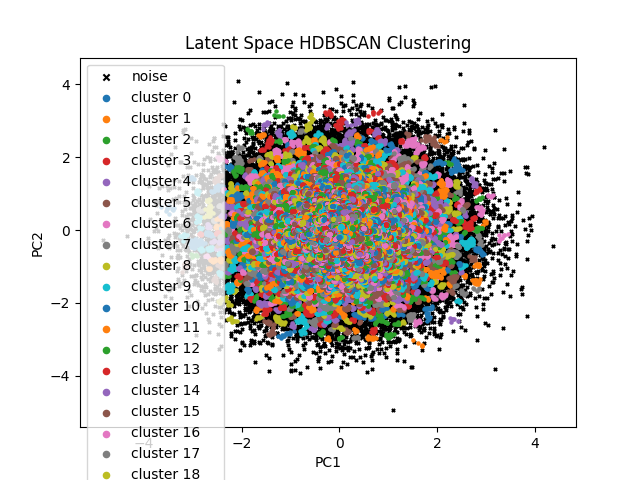
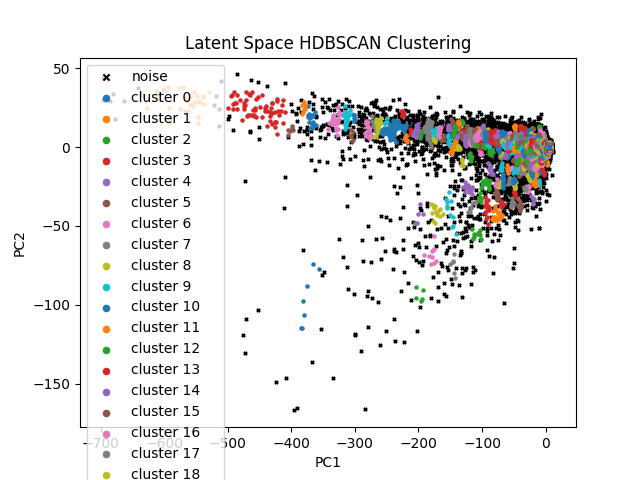
added the initial code for 6 VAEs

diff --git a/model.py b/model.py
@@ -1,4 +1,6 @@
 import torch
+from typing import List, Tuple
+from torch import Tensor
 import torch.nn as nn
 import torch.nn.functional as F
 from constants import (
@@ -17,7 +19,7 @@ class Conv_block(nn.Module):
         is_conv=True,
         use_dropout=USE_DROPOUT,
         dropout_rate=DROPOUT_RATE
-    ):
+    ) -> None:
         super().__init__()
         self.pool_op = (
             nn.AvgPool1d(2) if is_conv
@@ -35,7 +37,7 @@ class Conv_block(nn.Module):
         if use_dropout:
             self.dropout = nn.Dropout(dropout_rate)
 
-    def forward(self, x):
+    def forward(self, x: Tensor) -> Tensor:
         x = self.conv(x)
         x = self.bn(x)
         x = self.act(x)
@@ -44,7 +46,7 @@ class Conv_block(nn.Module):
         return self.pool_op(x)
     
 class Encoder(nn.Module):
-    def __init__(self, in_channels, latent_size):
+    def __init__(self, in_channels: int, latent_size: int) -> None:
         super().__init__()
         self.bn0 = nn.BatchNorm1d(in_channels,
                                   eps=BN_EPS,
@@ -71,49 +73,55 @@ class Encoder(nn.Module):
         self.encode_mean   = nn.Linear(flat_dim, latent_size)
         self.encode_logvar = nn.Linear(flat_dim, latent_size)
 
-    def forward(self, x):
+    def forward(self, x: Tensor) -> Tuple[Tensor, Tensor, List[Tensor]]:
         x = x.permute(0,2,1)      # (B, in_ch, L)
         x = self.bn0(x)
-        skips = []
+        skips : List[Tensor] = []
         for blk in self.blocks:
             x = blk(x)
             skips.append(x)
-        x4 = skips[-1]
-        x_pooled = self.adapt_pool(x4)
+        # x4 = skips[-1]
+        x_pooled = self.adapt_pool(skips[-1])
         flat     = x_pooled.flatten(1)
         mean     = self.encode_mean(flat)
         logvar   = self.encode_logvar(flat)
-        return mean, logvar, x4
+        return mean, logvar, skips
 
 
 
 class Decoder(nn.Module):
-    def __init__(self, length, in_channels, latent_size, out_channels):
+    def __init__(
+        self,
+        length: int,
+        in_channels: int,
+        latent_size: int,
+        out_channels: int
+    ) -> None:
         super().__init__()
         # store for final conv / length
         self.length = length
-        # final conv uses a constant kernel & pad
-        global FINAL_OUT_CHANNELS
-        FINAL_OUT_CHANNELS = out_channels
 
         self.adapt_nn = nn.Linear(latent_size, in_channels)
         self.relu     = nn.ReLU()
         self.tanh     = nn.Tanh()
 
+        enc_chs = [spec["out_ch"] for spec in ENCODER_BLOCKS][::-1]
+
         # mirror ENCODER_BLOCKS in reverse with upsampling
         self.blocks = nn.ModuleList()
-        ch_in = in_channels * 2   # because we concat skip
-        for spec in DECODER_BLOCKS:
-            out_ch = spec["out_ch"]
+        ch_in = in_channels   # because we concat skip
+        for idx, spec in enumerate(DECODER_BLOCKS):
+            skip_ch = enc_chs[idx]
+            in_ch   = ch_in + skip_ch
             blk = Conv_block(
-                in_ch=ch_in,
-                out_ch=out_ch,
+                in_ch=in_ch,
+                out_ch=spec["out_ch"],
                 kernel=spec["kernel"],
                 pad=spec["pad"],
                 is_conv=False,
             )
             self.blocks.append(blk)
-            ch_in = out_ch
+            ch_in = spec["out_ch"]
 
         # final conv to out_channels
         self.decode_conv = nn.Conv1d(
@@ -123,16 +131,24 @@ class Decoder(nn.Module):
             padding=FINAL_PADDING,
         )
 
-    def forward(self, z, skip_connection):
+    def forward(self, z: Tensor, skip_connections: List[Tensor]) -> Tensor:
         x = self.relu(self.adapt_nn(z)).unsqueeze(-1)
         # up to skip length
+        target_len = skip_connections[-1].size(2)
         x = F.interpolate(x,
-                          size=skip_connection.size(2),
+                          size=target_len,
                           mode='linear',
                           align_corners=True)
-        x = torch.cat([x, skip_connection], dim=1)
 
-        for blk in self.blocks:
+        for i, blk in enumerate(self.blocks):
+            enc_feat = skip_connections[-(i+1)]
+            x = F.interpolate(
+                x,
+                size=enc_feat.size(2),
+                mode="linear",
+                align_corners=True
+            )
+            x = torch.cat([x, enc_feat], dim=1)
             x = blk(x)
 
         x = F.interpolate(x,
@@ -146,7 +162,13 @@ class Decoder(nn.Module):
 
 
 class VAE(nn.Module):
-    def __init__(self, in_channels, length, latent_size=16, encoder_out_channels=128):
+    def __init__(
+        self,
+        in_channels: int,
+        length: int,
+        latent_size: int = 16,
+        encoder_out_channels: int = 128
+    ) -> None:
         super().__init__()
         self.encoder = Encoder(in_channels=in_channels,
                                latent_size=latent_size)
@@ -154,20 +176,20 @@ class VAE(nn.Module):
                                in_channels=encoder_out_channels,
                                latent_size=latent_size, out_channels=in_channels)
 
-    def reparameterize(self, mean, logvar):
+    def reparameterize(self, mean: Tensor, logvar: Tensor) -> Tensor:
         logvar = torch.clamp(logvar, min=-10, max=10)
         std    = torch.exp(0.5 * logvar).clamp(1e-5, 10.0)
         eps    = torch.randn_like(std)
         return mean + eps * std
 
-    def forward(self, x):
+    def forward(self, x: Tensor) -> Tuple[Tensor, Tensor, Tensor]:
         # x: (B, L, C) → feed to encoder
-        mean, logvar, skip_connection = self.encoder(x)
+        mean, logvar, skip_connections = self.encoder(x)
         z = self.reparameterize(mean, logvar)
-        recon = self.decoder(z, skip_connection)
+        recon = self.decoder(z, skip_connections)
         return recon, mean, logvar
 
-def initialize_weights(m):
+def initialize_weights(m: nn.Module) -> None:
     if isinstance(m, nn.Conv1d) or isinstance(m, nn.ConvTranspose1d):
         nn.init.kaiming_normal_(m.weight, nonlinearity='relu')
         if m.bias is not None:

diff --git a/train.py b/train.py
@@ -8,16 +8,8 @@ from data_processing import StreamingWindowDataset
 from model import VAE, initialize_weights
 from ploting_util import plot_reconstruction
 from clustering_util import cluster_latent_features
-from config import PROJECT_ROOT, DATA_PATH
-import re
-import os, glob
-
-
-
-CHECKPOINT_DIR = f"{PROJECT_ROOT}/checkpoints"
-os.makedirs(CHECKPOINT_DIR, exist_ok=True)
-resume = True
-
+from config import PROJECT_ROOT, DATA_PATH, CHECKPOINT_DIR
+import os, glob, shutil
 
 
 def main(
@@ -29,6 +21,7 @@ def main(
     epochs: int,
     learning_rate: float,
     min_cluster_size: int,
+    beta: int,
     plot_interval: int = 10,
 ):
     # 1) Hyperparameters & MLflow setup
@@ -44,6 +37,7 @@ def main(
     "Sekundärspannung L3 in V",
     ]
 
+    resume = True #variable to check older checkpoints
     for meas in MEASUREMENTS:
         print(f"\n▶▶▶ Training VAE for measurement: {meas}")
 
@@ -56,7 +50,7 @@ def main(
             stride_ms=stride_ms,
             feature_min=0.0,
             feature_max=1.0,
-            level1_filter=re.escape(meas),
+            level1_filter=meas,
         )
         train_loader = DataLoader(
             dataset,
@@ -90,18 +84,23 @@ def main(
         
         #checking for checkpoints
         start_epoch = 1
+
+        meas_name = meas.replace(" ", "_") # e.g. "Sekundärspannung_L3_in_V"
+        CKPT_DIR = os.path.join(CHECKPOINT_DIR, meas_name)
+        os.makedirs(CKPT_DIR, exist_ok=True)
+
         if resume:
-            ckpts = glob.glob(os.path.join(CHECKPOINT_DIR, "epoch_*.pth"))
+            ckpts = glob.glob(os.path.join(CKPT_DIR, "epoch_*.pth"))
             if ckpts:
-                latest = max(ckpts, key=lambda fn: int(fn.rstrip(".pth").split("_")[-1]))
+                latest = max(ckpts, key=lambda fn: int(os.path.basename(fn).split("_")[-1].rstrip(".pth")))
                 cp = torch.load(latest, map_location=device)
                 model.load_state_dict(cp["model_state"])
                 optimizer.load_state_dict(cp["opt_state"])
                 start_epoch = cp["epoch"] + 1
-                print(f"Resumed from {latest}, starting at epoch {start_epoch}")
+                print(f"▶▶▶ Resumed {meas} from {latest}, starting at epoch {start_epoch}")
 
         # 4) Training loop
-        for epoch in range(1, epochs + 1):
+        for epoch in range(start_epoch, epochs + 1):
             model.train()
             total_loss = 0.0
 
@@ -117,9 +116,9 @@ def main(
                 elif recon.size(2) > x2.size(2):
                     recon = recon[:, :, : x2.size(2)]
 
-                recon_loss = torch.nn.functional.mse_loss(recon, x2, reduction='mean')
-                kld        = -0.5 * torch.mean(1 + logvar - mean.pow(2) - logvar.exp())
-                loss       = recon_loss + kld
+                recon_loss = torch.nn.functional.mse_loss(recon, x2, reduction='sum')
+                kld        = -0.5 * torch.sum(1 + logvar - mean.pow(2) - logvar.exp())
+                loss       = recon_loss + beta * kld
 
                 optimizer.zero_grad()
                 loss.backward()
@@ -133,13 +132,15 @@ def main(
             
 
             #saving checkpoint
-            ckpt_path = os.path.join(CHECKPOINT_DIR, f"epoch_{epoch}.pth")
+            ckpt_path = os.path.join(CKPT_DIR, f"epoch_{epoch:02d}.pth")
             torch.save({
-                "epoch": epoch,
                 "model_state": model.state_dict(),
-                "opt_state": optimizer.state_dict(),
+                "opt_state":  optimizer.state_dict(),
+                "epoch":      epoch
             }, ckpt_path)
-            print(f"→ Saved checkpoint: {ckpt_path}")
+            # update a “latest.pth” shortcut
+            latest_link = os.path.join(CKPT_DIR, "latest.pth")
+            shutil.copyfile(ckpt_path, latest_link)
 
             if epoch % plot_interval == 0:
                 model.eval()
@@ -165,6 +166,7 @@ def main(
                         recon_np,
                         indices=[0],
                         out_path=out_dir,
+                        epoch= epoch,
                         meas=meas.replace(" ", "_")    # match your scaler filename
                     )
                     mlflow.log_artifact(out_dir)
@@ -194,9 +196,9 @@ def main(
         labels = cluster_latent_features(
             latent_features,
             min_cluster_size=min_cluster_size,
-            out_path=f"{PROJECT_ROOT}/clusters.png",
+            out_path=f"{PROJECT_ROOT}/clustering_img/clusters_{meas}.png",
         )
-        mlflow.log_artifact(f"{PROJECT_ROOT}/clusters.png")
+        mlflow.log_artifact(f"{PROJECT_ROOT}/clustering_img/clusters_{meas}.png")
 
     mlflow.end_run()
 
@@ -214,4 +216,5 @@ if __name__ == "__main__":
     best_epochs = best_params['epochs']
     best_learning_rate = best_params['learning_rate']
     best_min_cluster_size = best_params['min_cluster_size']
-    main(sample_rate=best_sample_rate, window_ms=best_window_ms, stride_ms=best_stride_ms, latent_dim=best_latent_dim, batch_size=best_batch_size, epochs=best_epochs, learning_rate=best_learning_rate, min_cluster_size=best_min_cluster_size)
+    best_beta = best_params['beta']
+    main(sample_rate=best_sample_rate, window_ms=best_window_ms, stride_ms=best_stride_ms, latent_dim=best_latent_dim, batch_size=best_batch_size, epochs=best_epochs, learning_rate=best_learning_rate, min_cluster_size=best_min_cluster_size, beta = best_beta)

diff --git a/constants.py b/constants.py
@@ -11,10 +11,11 @@ DROPOUT_RATE  = 0.2
 # ── Encoder conv‐block specs in order ─────────────────────────────────────────
 # each dict is (out_channels, kernel_size, padding, stride)
 ENCODER_BLOCKS = [
-    {"out_ch":  64, "kernel": 21, "pad": 10, "stride": 1},
-    {"out_ch":  64, "kernel": 15, "pad":  7, "stride": 2},
-    {"out_ch": 128, "kernel": 11, "pad":  5, "stride": 2},
-    {"out_ch": 128, "kernel":  7, "pad":  3, "stride": 2},
+    {"out_ch": 128, "kernel": 21, "pad": 10, "stride": 1},
+    {"out_ch": 128, "kernel": 15, "pad":  7, "stride": 2},
+    {"out_ch": 256, "kernel": 11, "pad":  5, "stride": 2},
+    {"out_ch": 256, "kernel":  7, "pad":  3, "stride": 2},
+    {"out_ch": 512, "kernel":  5, "pad":  2, "stride": 2},  # extra block
 ]
 
 # how many time‐steps remaining after these 4 blocks, adapt to 4
@@ -23,10 +24,11 @@ ADAPT_POOL_OUTPUT_SIZE = 4
 # ── Decoder “deconv” blocks ───────────────────────────────────────────────────
 # we mirror the encoder, but with is_conv=False
 DECODER_BLOCKS = [
-    {"out_ch":  64, "kernel":  7, "pad":  3},
-    {"out_ch":  32, "kernel": 11, "pad":  5},
-    {"out_ch":  32, "kernel": 15, "pad":  7},
-    {"out_ch":  16, "kernel": 21, "pad": 10},
+    {"out_ch": 256, "kernel":  5, "pad":  2},
+    {"out_ch": 256, "kernel":  7, "pad":  3},
+    {"out_ch": 128, "kernel": 11, "pad":  5},
+    {"out_ch": 128, "kernel": 15, "pad":  7},
+    {"out_ch":  64, "kernel": 21, "pad": 10},
 ]
 
 # ── Final conv in decoder ─────────────────────────────────────────────────────

diff --git a/ploting_util.py b/ploting_util.py
@@ -7,6 +7,7 @@ def plot_reconstruction(orig: np.ndarray,
                         recon: np.ndarray,
                         indices: list,
                         out_path: str,
+                        epoch: int,
                         meas: str):
     """
     orig, recon: (batch, seq_len, channels) in _scaled_ [0,1] units
@@ -33,6 +34,6 @@ def plot_reconstruction(orig: np.ndarray,
         plt.tight_layout()
 
         # ensure out_path ends with .png or a filename
-        fname = out_path.rstrip('/') + f"/recon_{meas}_idx{i}.png"
+        fname = out_path.rstrip('/') + f"/recon_{meas}_idx{i}_epoch_{epoch}.png"
         plt.savefig(fname)
         plt.close()

diff --git a/data_processing.py b/data_processing.py
@@ -78,7 +78,8 @@ class StreamingWindowDataset(Dataset):
         local  = idx - self.cum_windows[file_i]
         start  = local * self.stride
         p      = self.paths[file_i]
-        joblib.dump(self.scaler, f"{PROJECT_ROOT}/scalers/minmax_scaler_{self.level1_filter or 'all'}.pkl")
+        meas = self.level1_filter.replace(" ", "_") if self.level1_filter else "all"
+        joblib.dump(self.scaler, f"{PROJECT_ROOT}/scalers/minmax_scaler_{meas}.pkl")
 
         # read, select columns, slice window
         df = pd.read_parquet(p).loc[:, self.keep_cols.to_list()]

diff --git a/config.py b/config.py
@@ -1,3 +1,4 @@
 from pathlib import Path
 PROJECT_ROOT = Path(__file__).resolve().parent
 DATA_PATH = "/home/vault/iwi5/iwi5305h/new_dataset_90kv/all"
+CHECKPOINT_DIR = f"{PROJECT_ROOT}/checkpoints"
